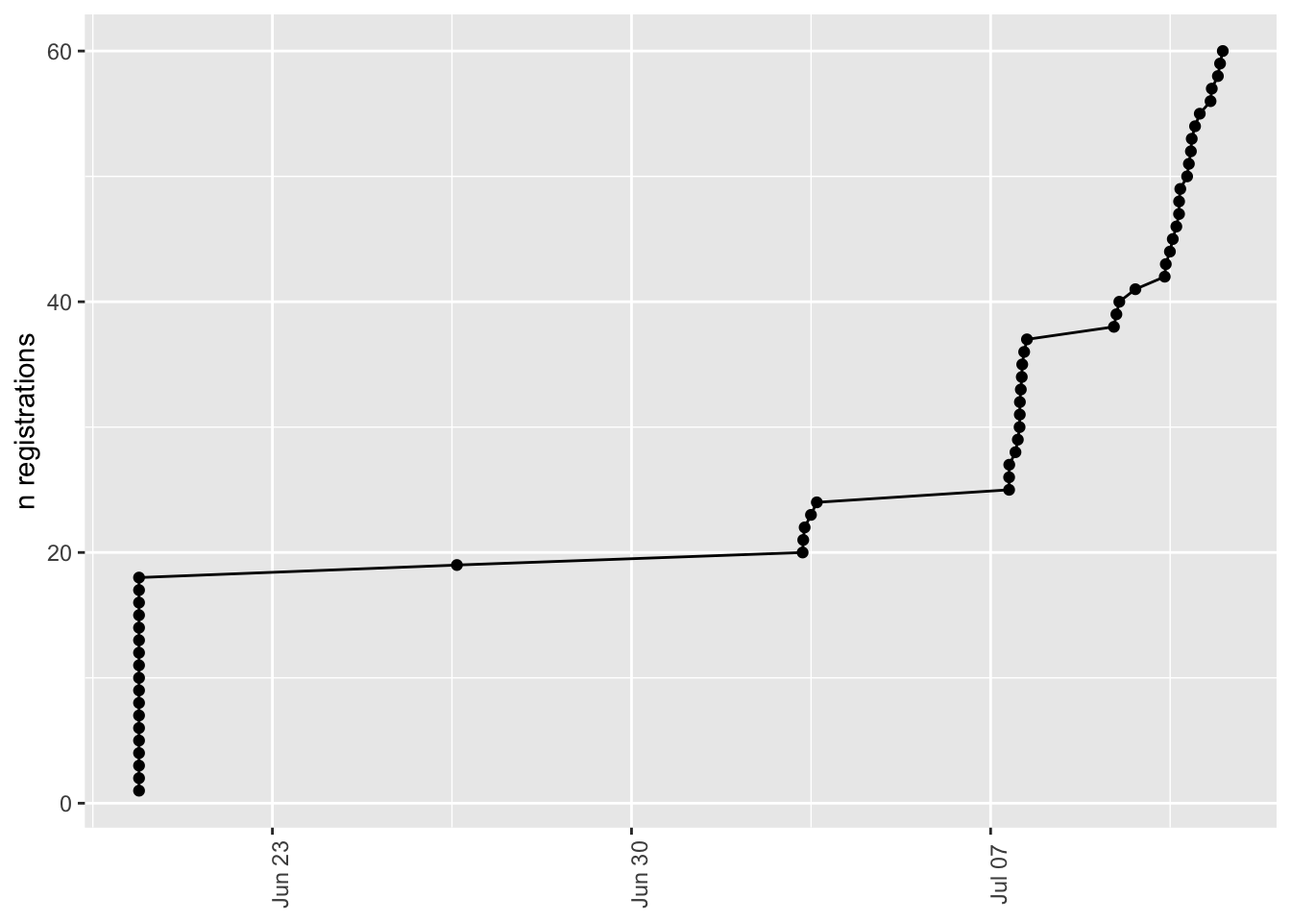
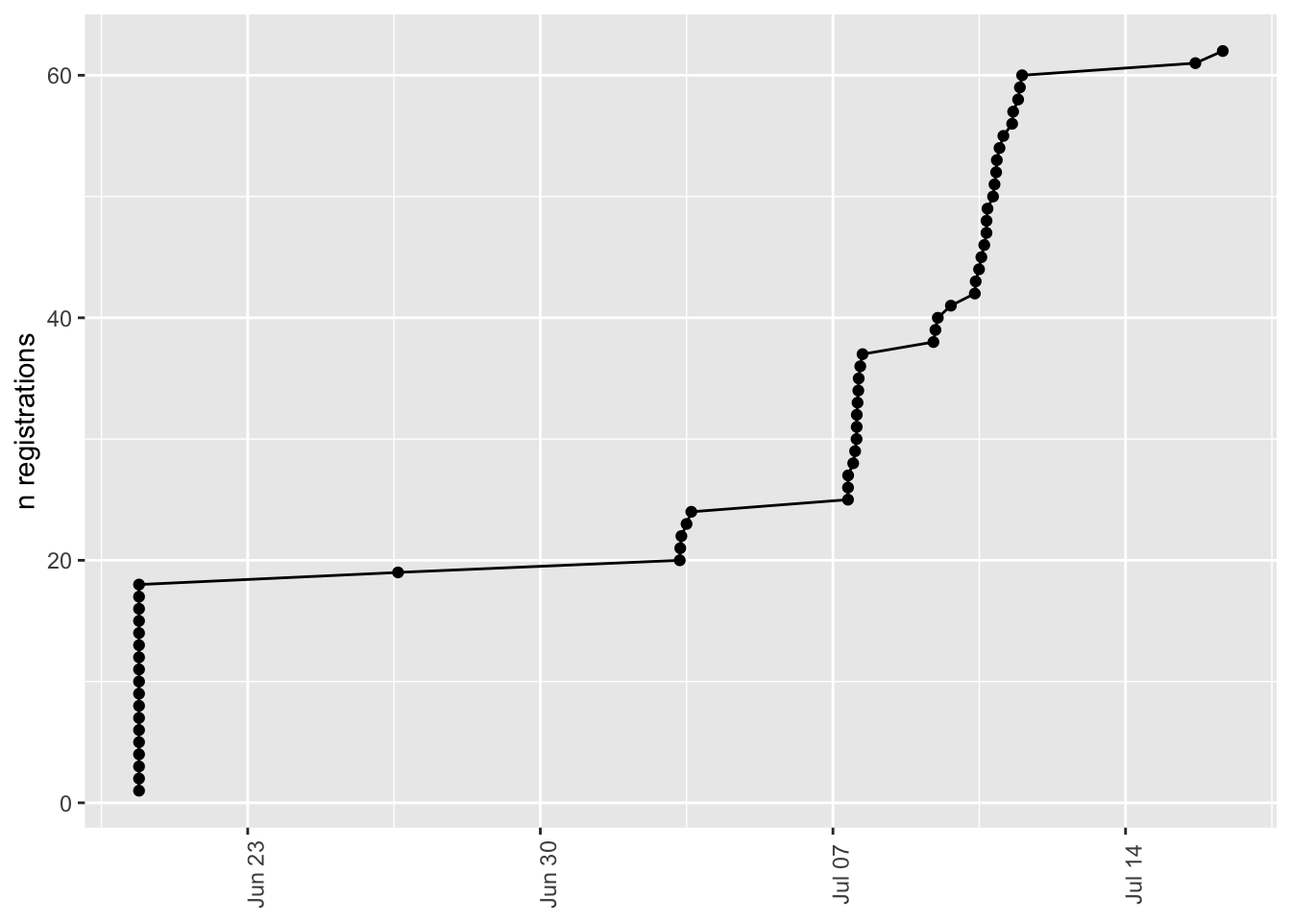
Add stub description links for workshops.

diff --git a/docs/registration.html b/docs/registration.html
@@ -299,7 +299,7 @@ window.Quarto = {
     <div>
     <div class="quarto-title-meta-heading">Modified</div>
     <div class="quarto-title-meta-contents">
-      <p class="date-modified">July 13, 2025</p>
+      <p class="date-modified">July 16, 2025</p>
     </div>
   </div>
     
@@ -530,7 +530,7 @@ Table&nbsp;9.1: A minimal data dictionary.
 <span id="cb7-5"><a href="#cb7-5" aria-hidden="true" tabindex="-1"></a>  dplyr<span class="sc">::</span><span class="fu">mutate</span>(<span class="at">keynotes =</span> stringr<span class="sc">::</span><span class="fu">str_detect</span>(<span class="at">string =</span> bootcamp_keynote, <span class="at">pattern =</span> <span class="st">"Keynote"</span>))</span></code><button title="Copy to Clipboard" class="code-copy-button"><i class="bi"></i></button></pre></div>
 </details>
 </div>
-<p>As of 2025-07-15, we have <span class="math inline">\(n=\)</span> 60 registered attendees and presenters. That is 80 % of our target registration/attendance limit of <em>n</em>=75.</p>
+<p>As of 2025-07-16, we have <span class="math inline">\(n=\)</span> 62 registered attendees and presenters. That is 82.7 % of our target registration/attendance limit of <em>n</em>=75.</p>
 </section>
 <section id="time-series" class="level3 unnumbered">
 <h3 class="unnumbered anchored" data-anchor-id="time-series">Time series</h3>
@@ -607,13 +607,13 @@ n_fri
 <tbody>
 <tr>
 <td style="text-align:right;">
-48
+50
 </td>
 <td style="text-align:right;">
-53
+55
 </td>
 <td style="text-align:right;">
-44
+46
 </td>
 </tr>
 </tbody>
@@ -714,62 +714,63 @@ Figure&nbsp;9.2: Registrations by position
 <span id="cb11-52"><a href="#cb11-52" aria-hidden="true" tabindex="-1"></a>      <span class="st">`</span><span class="at">Libraries</span><span class="st">`</span> <span class="ot">=</span> <span class="st">"University Libraries"</span>,</span>
 <span id="cb11-53"><a href="#cb11-53" aria-hidden="true" tabindex="-1"></a>      <span class="st">`</span><span class="at">University libraries</span><span class="st">`</span> <span class="ot">=</span> <span class="st">"University Libraries"</span>,</span>
 <span id="cb11-54"><a href="#cb11-54" aria-hidden="true" tabindex="-1"></a>      <span class="st">`</span><span class="at">Ecosystem Science and Management</span><span class="st">`</span> <span class="ot">=</span> <span class="st">"Ecosystem Science &amp; Management"</span>,</span>
-<span id="cb11-55"><a href="#cb11-55" aria-hidden="true" tabindex="-1"></a>      <span class="st">`</span><span class="at">PRC</span><span class="st">`</span> <span class="ot">=</span> <span class="st">"Population Research Center"</span></span>
-<span id="cb11-56"><a href="#cb11-56" aria-hidden="true" tabindex="-1"></a>    )</span>
-<span id="cb11-57"><a href="#cb11-57" aria-hidden="true" tabindex="-1"></a>  ) <span class="sc">|&gt;</span> </span>
-<span id="cb11-58"><a href="#cb11-58" aria-hidden="true" tabindex="-1"></a>  dplyr<span class="sc">::</span><span class="fu">mutate</span>(</span>
-<span id="cb11-59"><a href="#cb11-59" aria-hidden="true" tabindex="-1"></a>    <span class="at">college =</span> <span class="fu">case_match</span>(</span>
-<span id="cb11-60"><a href="#cb11-60" aria-hidden="true" tabindex="-1"></a>      dept,</span>
-<span id="cb11-61"><a href="#cb11-61" aria-hidden="true" tabindex="-1"></a>      <span class="st">"Statistics"</span> <span class="sc">~</span> <span class="st">"ECoS"</span>,</span>
-<span id="cb11-62"><a href="#cb11-62" aria-hidden="true" tabindex="-1"></a>      <span class="st">"Biology"</span> <span class="sc">~</span> <span class="st">"ECoS"</span>,</span>
-<span id="cb11-63"><a href="#cb11-63" aria-hidden="true" tabindex="-1"></a>      <span class="st">"Psychology"</span> <span class="sc">~</span> <span class="st">"CLA"</span>,</span>
-<span id="cb11-64"><a href="#cb11-64" aria-hidden="true" tabindex="-1"></a>      <span class="st">"Spanish, Italian, &amp; Portuguese"</span> <span class="sc">~</span> <span class="st">"CLA"</span>,</span>
-<span id="cb11-65"><a href="#cb11-65" aria-hidden="true" tabindex="-1"></a>      <span class="st">"Research Informatics and Publishing"</span> <span class="sc">~</span> <span class="st">"Libraries"</span>,</span>
-<span id="cb11-66"><a href="#cb11-66" aria-hidden="true" tabindex="-1"></a>      <span class="st">"Political Science"</span> <span class="sc">~</span> <span class="st">"CLA"</span>,</span>
-<span id="cb11-67"><a href="#cb11-67" aria-hidden="true" tabindex="-1"></a>      <span class="st">"Applied Linguistics"</span> <span class="sc">~</span> <span class="st">"CLA"</span>,</span>
-<span id="cb11-68"><a href="#cb11-68" aria-hidden="true" tabindex="-1"></a>      <span class="st">"Global Languages &amp; Literatures"</span> <span class="sc">~</span> <span class="st">"CLA"</span>,</span>
-<span id="cb11-69"><a href="#cb11-69" aria-hidden="true" tabindex="-1"></a>      <span class="st">"Sociology"</span> <span class="sc">~</span> <span class="st">"CLA"</span>,</span>
-<span id="cb11-70"><a href="#cb11-70" aria-hidden="true" tabindex="-1"></a>      <span class="st">"English"</span> <span class="sc">~</span> <span class="st">"CLA"</span>,</span>
-<span id="cb11-71"><a href="#cb11-71" aria-hidden="true" tabindex="-1"></a>      <span class="st">"C-SoDA"</span> <span class="sc">~</span> <span class="st">"CLA"</span>,</span>
-<span id="cb11-72"><a href="#cb11-72" aria-hidden="true" tabindex="-1"></a>      <span class="st">"Office of Digital Pedagogies and Initiatives"</span> <span class="sc">~</span> <span class="st">"CLA"</span>,</span>
-<span id="cb11-73"><a href="#cb11-73" aria-hidden="true" tabindex="-1"></a>      <span class="st">"Asian Studies"</span> <span class="sc">~</span> <span class="st">"CLA"</span>,</span>
-<span id="cb11-74"><a href="#cb11-74" aria-hidden="true" tabindex="-1"></a>      <span class="st">"Sociology &amp; Criminology"</span> <span class="sc">~</span> <span class="st">"CLA"</span>,</span>
-<span id="cb11-75"><a href="#cb11-75" aria-hidden="true" tabindex="-1"></a>      <span class="st">"IST"</span> <span class="sc">~</span> <span class="st">"IST"</span>,</span>
-<span id="cb11-76"><a href="#cb11-76" aria-hidden="true" tabindex="-1"></a>      <span class="st">"Chemical Engineering"</span> <span class="sc">~</span> <span class="st">"Engineering"</span>,</span>
-<span id="cb11-77"><a href="#cb11-77" aria-hidden="true" tabindex="-1"></a>      <span class="st">"Material Science and Engineering"</span> <span class="sc">~</span> <span class="st">"Engineering"</span>,</span>
-<span id="cb11-78"><a href="#cb11-78" aria-hidden="true" tabindex="-1"></a>      <span class="st">"Engineering Science &amp; Mechanics"</span> <span class="sc">~</span> <span class="st">"Engineering"</span>,</span>
-<span id="cb11-79"><a href="#cb11-79" aria-hidden="true" tabindex="-1"></a>      <span class="st">"College of Engineering"</span> <span class="sc">~</span> <span class="st">"Engineering"</span>,</span>
-<span id="cb11-80"><a href="#cb11-80" aria-hidden="true" tabindex="-1"></a>      <span class="st">"Biomedical Engineering"</span> <span class="sc">~</span> <span class="st">"Engineering"</span>,</span>
-<span id="cb11-81"><a href="#cb11-81" aria-hidden="true" tabindex="-1"></a>      <span class="st">"Nutritional Sciences"</span> <span class="sc">~</span> <span class="st">"HHD"</span>,</span>
-<span id="cb11-82"><a href="#cb11-82" aria-hidden="true" tabindex="-1"></a>      <span class="st">"HDFS"</span> <span class="sc">~</span> <span class="st">"HHD"</span>,</span>
-<span id="cb11-83"><a href="#cb11-83" aria-hidden="true" tabindex="-1"></a>      <span class="st">"Kinesiology"</span> <span class="sc">~</span> <span class="st">"HHD"</span>,</span>
-<span id="cb11-84"><a href="#cb11-84" aria-hidden="true" tabindex="-1"></a>      <span class="st">"Recreation, Park, &amp; Tourism Management"</span> <span class="sc">~</span> <span class="st">"HHD"</span>,</span>
-<span id="cb11-85"><a href="#cb11-85" aria-hidden="true" tabindex="-1"></a>      <span class="st">"BBH"</span> <span class="sc">~</span> <span class="st">"HHD"</span>,</span>
-<span id="cb11-86"><a href="#cb11-86" aria-hidden="true" tabindex="-1"></a>      <span class="st">"College of Nursing"</span> <span class="sc">~</span> <span class="st">"Nursing"</span>,</span>
-<span id="cb11-87"><a href="#cb11-87" aria-hidden="true" tabindex="-1"></a>      <span class="st">"Bellisario College of Communication"</span> <span class="sc">~</span> <span class="st">"Comm"</span>,</span>
-<span id="cb11-88"><a href="#cb11-88" aria-hidden="true" tabindex="-1"></a>      <span class="st">"Marketing"</span> <span class="sc">~</span> <span class="st">"Smeal"</span>,</span>
-<span id="cb11-89"><a href="#cb11-89" aria-hidden="true" tabindex="-1"></a>      <span class="st">"Food Science"</span> <span class="sc">~</span> <span class="st">"Ag"</span>,</span>
-<span id="cb11-90"><a href="#cb11-90" aria-hidden="true" tabindex="-1"></a>      <span class="st">"Neuroscience"</span> <span class="sc">~</span> <span class="st">"Med"</span>,</span>
-<span id="cb11-91"><a href="#cb11-91" aria-hidden="true" tabindex="-1"></a>      <span class="st">"College of Human and Health Development"</span> <span class="sc">~</span> <span class="st">"HHD"</span>,</span>
-<span id="cb11-92"><a href="#cb11-92" aria-hidden="true" tabindex="-1"></a>      <span class="st">"University Libraries"</span> <span class="sc">~</span> <span class="st">"Libraries"</span>,</span>
-<span id="cb11-93"><a href="#cb11-93" aria-hidden="true" tabindex="-1"></a>      <span class="st">"ICDS"</span> <span class="sc">~</span> <span class="st">"ICDS"</span>,</span>
-<span id="cb11-94"><a href="#cb11-94" aria-hidden="true" tabindex="-1"></a>      <span class="st">"EESI"</span> <span class="sc">~</span> <span class="st">"EESI"</span>,</span>
-<span id="cb11-95"><a href="#cb11-95" aria-hidden="true" tabindex="-1"></a>      <span class="st">"ORP"</span> <span class="sc">~</span> <span class="st">"OVPR"</span>,</span>
-<span id="cb11-96"><a href="#cb11-96" aria-hidden="true" tabindex="-1"></a>      <span class="st">"Astronomy &amp; Astrophysics"</span> <span class="sc">~</span> <span class="st">"ECoS"</span>,</span>
-<span id="cb11-97"><a href="#cb11-97" aria-hidden="true" tabindex="-1"></a>      <span class="st">"Entomology"</span> <span class="sc">~</span> <span class="st">"AgSci"</span>,</span>
-<span id="cb11-98"><a href="#cb11-98" aria-hidden="true" tabindex="-1"></a>      <span class="st">"Ecosystem Science &amp; Management"</span> <span class="sc">~</span> <span class="st">"AgSci"</span>,</span>
-<span id="cb11-99"><a href="#cb11-99" aria-hidden="true" tabindex="-1"></a>      <span class="st">"Plant Biology"</span> <span class="sc">~</span> <span class="st">"Huck"</span>,</span>
-<span id="cb11-100"><a href="#cb11-100" aria-hidden="true" tabindex="-1"></a>      <span class="st">"Acoustics"</span> <span class="sc">~</span> <span class="st">"Engineering"</span>,</span>
-<span id="cb11-101"><a href="#cb11-101" aria-hidden="true" tabindex="-1"></a>      <span class="st">"Communication Sciences &amp; Disorders"</span> <span class="sc">~</span> <span class="st">"HHD"</span>,</span>
-<span id="cb11-102"><a href="#cb11-102" aria-hidden="true" tabindex="-1"></a>      <span class="st">"Electrical Engineering &amp; Comp Sci"</span> <span class="sc">~</span> <span class="st">"Engineering"</span>,</span>
-<span id="cb11-103"><a href="#cb11-103" aria-hidden="true" tabindex="-1"></a>      <span class="st">"Population Research Center"</span> <span class="sc">~</span> <span class="st">"SSRI"</span>,</span>
-<span id="cb11-104"><a href="#cb11-104" aria-hidden="true" tabindex="-1"></a>      <span class="st">"Psychology (Harrisburg)"</span> <span class="sc">~</span> <span class="st">"PSU Harrisburg"</span>,</span>
-<span id="cb11-105"><a href="#cb11-105" aria-hidden="true" tabindex="-1"></a>      <span class="st">"Business and Economics"</span> <span class="sc">~</span> <span class="st">"PSU Brandywine"</span>,</span>
-<span id="cb11-106"><a href="#cb11-106" aria-hidden="true" tabindex="-1"></a>      <span class="st">"Engineering"</span> <span class="sc">~</span> <span class="st">"Engineering"</span></span>
-<span id="cb11-107"><a href="#cb11-107" aria-hidden="true" tabindex="-1"></a>    ),</span>
-<span id="cb11-108"><a href="#cb11-108" aria-hidden="true" tabindex="-1"></a>    <span class="at">.default =</span> <span class="st">"Unknown"</span>,</span>
-<span id="cb11-109"><a href="#cb11-109" aria-hidden="true" tabindex="-1"></a>    <span class="at">.missing =</span> <span class="st">"Unknown"</span></span>
-<span id="cb11-110"><a href="#cb11-110" aria-hidden="true" tabindex="-1"></a>  )</span></code><button title="Copy to Clipboard" class="code-copy-button"><i class="bi"></i></button></pre></div>
+<span id="cb11-55"><a href="#cb11-55" aria-hidden="true" tabindex="-1"></a>      <span class="st">`</span><span class="at">PRC</span><span class="st">`</span> <span class="ot">=</span> <span class="st">"Population Research Center"</span>,</span>
+<span id="cb11-56"><a href="#cb11-56" aria-hidden="true" tabindex="-1"></a>      <span class="st">`</span><span class="at">TLT, PSU Libraries</span><span class="st">`</span> <span class="ot">=</span> <span class="st">"University Libraries"</span></span>
+<span id="cb11-57"><a href="#cb11-57" aria-hidden="true" tabindex="-1"></a>    )</span>
+<span id="cb11-58"><a href="#cb11-58" aria-hidden="true" tabindex="-1"></a>  ) <span class="sc">|&gt;</span> </span>
+<span id="cb11-59"><a href="#cb11-59" aria-hidden="true" tabindex="-1"></a>  dplyr<span class="sc">::</span><span class="fu">mutate</span>(</span>
+<span id="cb11-60"><a href="#cb11-60" aria-hidden="true" tabindex="-1"></a>    <span class="at">college =</span> <span class="fu">case_match</span>(</span>
+<span id="cb11-61"><a href="#cb11-61" aria-hidden="true" tabindex="-1"></a>      dept,</span>
+<span id="cb11-62"><a href="#cb11-62" aria-hidden="true" tabindex="-1"></a>      <span class="st">"Statistics"</span> <span class="sc">~</span> <span class="st">"ECoS"</span>,</span>
+<span id="cb11-63"><a href="#cb11-63" aria-hidden="true" tabindex="-1"></a>      <span class="st">"Biology"</span> <span class="sc">~</span> <span class="st">"ECoS"</span>,</span>
+<span id="cb11-64"><a href="#cb11-64" aria-hidden="true" tabindex="-1"></a>      <span class="st">"Psychology"</span> <span class="sc">~</span> <span class="st">"CLA"</span>,</span>
+<span id="cb11-65"><a href="#cb11-65" aria-hidden="true" tabindex="-1"></a>      <span class="st">"Spanish, Italian, &amp; Portuguese"</span> <span class="sc">~</span> <span class="st">"CLA"</span>,</span>
+<span id="cb11-66"><a href="#cb11-66" aria-hidden="true" tabindex="-1"></a>      <span class="st">"Research Informatics and Publishing"</span> <span class="sc">~</span> <span class="st">"Libraries"</span>,</span>
+<span id="cb11-67"><a href="#cb11-67" aria-hidden="true" tabindex="-1"></a>      <span class="st">"Political Science"</span> <span class="sc">~</span> <span class="st">"CLA"</span>,</span>
+<span id="cb11-68"><a href="#cb11-68" aria-hidden="true" tabindex="-1"></a>      <span class="st">"Applied Linguistics"</span> <span class="sc">~</span> <span class="st">"CLA"</span>,</span>
+<span id="cb11-69"><a href="#cb11-69" aria-hidden="true" tabindex="-1"></a>      <span class="st">"Global Languages &amp; Literatures"</span> <span class="sc">~</span> <span class="st">"CLA"</span>,</span>
+<span id="cb11-70"><a href="#cb11-70" aria-hidden="true" tabindex="-1"></a>      <span class="st">"Sociology"</span> <span class="sc">~</span> <span class="st">"CLA"</span>,</span>
+<span id="cb11-71"><a href="#cb11-71" aria-hidden="true" tabindex="-1"></a>      <span class="st">"English"</span> <span class="sc">~</span> <span class="st">"CLA"</span>,</span>
+<span id="cb11-72"><a href="#cb11-72" aria-hidden="true" tabindex="-1"></a>      <span class="st">"C-SoDA"</span> <span class="sc">~</span> <span class="st">"CLA"</span>,</span>
+<span id="cb11-73"><a href="#cb11-73" aria-hidden="true" tabindex="-1"></a>      <span class="st">"Office of Digital Pedagogies and Initiatives"</span> <span class="sc">~</span> <span class="st">"CLA"</span>,</span>
+<span id="cb11-74"><a href="#cb11-74" aria-hidden="true" tabindex="-1"></a>      <span class="st">"Asian Studies"</span> <span class="sc">~</span> <span class="st">"CLA"</span>,</span>
+<span id="cb11-75"><a href="#cb11-75" aria-hidden="true" tabindex="-1"></a>      <span class="st">"Sociology &amp; Criminology"</span> <span class="sc">~</span> <span class="st">"CLA"</span>,</span>
+<span id="cb11-76"><a href="#cb11-76" aria-hidden="true" tabindex="-1"></a>      <span class="st">"IST"</span> <span class="sc">~</span> <span class="st">"IST"</span>,</span>
+<span id="cb11-77"><a href="#cb11-77" aria-hidden="true" tabindex="-1"></a>      <span class="st">"Chemical Engineering"</span> <span class="sc">~</span> <span class="st">"Engineering"</span>,</span>
+<span id="cb11-78"><a href="#cb11-78" aria-hidden="true" tabindex="-1"></a>      <span class="st">"Material Science and Engineering"</span> <span class="sc">~</span> <span class="st">"Engineering"</span>,</span>
+<span id="cb11-79"><a href="#cb11-79" aria-hidden="true" tabindex="-1"></a>      <span class="st">"Engineering Science &amp; Mechanics"</span> <span class="sc">~</span> <span class="st">"Engineering"</span>,</span>
+<span id="cb11-80"><a href="#cb11-80" aria-hidden="true" tabindex="-1"></a>      <span class="st">"College of Engineering"</span> <span class="sc">~</span> <span class="st">"Engineering"</span>,</span>
+<span id="cb11-81"><a href="#cb11-81" aria-hidden="true" tabindex="-1"></a>      <span class="st">"Biomedical Engineering"</span> <span class="sc">~</span> <span class="st">"Engineering"</span>,</span>
+<span id="cb11-82"><a href="#cb11-82" aria-hidden="true" tabindex="-1"></a>      <span class="st">"Nutritional Sciences"</span> <span class="sc">~</span> <span class="st">"HHD"</span>,</span>
+<span id="cb11-83"><a href="#cb11-83" aria-hidden="true" tabindex="-1"></a>      <span class="st">"HDFS"</span> <span class="sc">~</span> <span class="st">"HHD"</span>,</span>
+<span id="cb11-84"><a href="#cb11-84" aria-hidden="true" tabindex="-1"></a>      <span class="st">"Kinesiology"</span> <span class="sc">~</span> <span class="st">"HHD"</span>,</span>
+<span id="cb11-85"><a href="#cb11-85" aria-hidden="true" tabindex="-1"></a>      <span class="st">"Recreation, Park, &amp; Tourism Management"</span> <span class="sc">~</span> <span class="st">"HHD"</span>,</span>
+<span id="cb11-86"><a href="#cb11-86" aria-hidden="true" tabindex="-1"></a>      <span class="st">"BBH"</span> <span class="sc">~</span> <span class="st">"HHD"</span>,</span>
+<span id="cb11-87"><a href="#cb11-87" aria-hidden="true" tabindex="-1"></a>      <span class="st">"College of Nursing"</span> <span class="sc">~</span> <span class="st">"Nursing"</span>,</span>
+<span id="cb11-88"><a href="#cb11-88" aria-hidden="true" tabindex="-1"></a>      <span class="st">"Bellisario College of Communication"</span> <span class="sc">~</span> <span class="st">"Comm"</span>,</span>
+<span id="cb11-89"><a href="#cb11-89" aria-hidden="true" tabindex="-1"></a>      <span class="st">"Marketing"</span> <span class="sc">~</span> <span class="st">"Smeal"</span>,</span>
+<span id="cb11-90"><a href="#cb11-90" aria-hidden="true" tabindex="-1"></a>      <span class="st">"Food Science"</span> <span class="sc">~</span> <span class="st">"Ag"</span>,</span>
+<span id="cb11-91"><a href="#cb11-91" aria-hidden="true" tabindex="-1"></a>      <span class="st">"Neuroscience"</span> <span class="sc">~</span> <span class="st">"Med"</span>,</span>
+<span id="cb11-92"><a href="#cb11-92" aria-hidden="true" tabindex="-1"></a>      <span class="st">"College of Human and Health Development"</span> <span class="sc">~</span> <span class="st">"HHD"</span>,</span>
+<span id="cb11-93"><a href="#cb11-93" aria-hidden="true" tabindex="-1"></a>      <span class="st">"University Libraries"</span> <span class="sc">~</span> <span class="st">"Libraries"</span>,</span>
+<span id="cb11-94"><a href="#cb11-94" aria-hidden="true" tabindex="-1"></a>      <span class="st">"ICDS"</span> <span class="sc">~</span> <span class="st">"ICDS"</span>,</span>
+<span id="cb11-95"><a href="#cb11-95" aria-hidden="true" tabindex="-1"></a>      <span class="st">"EESI"</span> <span class="sc">~</span> <span class="st">"EESI"</span>,</span>
+<span id="cb11-96"><a href="#cb11-96" aria-hidden="true" tabindex="-1"></a>      <span class="st">"ORP"</span> <span class="sc">~</span> <span class="st">"OVPR"</span>,</span>
+<span id="cb11-97"><a href="#cb11-97" aria-hidden="true" tabindex="-1"></a>      <span class="st">"Astronomy &amp; Astrophysics"</span> <span class="sc">~</span> <span class="st">"ECoS"</span>,</span>
+<span id="cb11-98"><a href="#cb11-98" aria-hidden="true" tabindex="-1"></a>      <span class="st">"Entomology"</span> <span class="sc">~</span> <span class="st">"AgSci"</span>,</span>
+<span id="cb11-99"><a href="#cb11-99" aria-hidden="true" tabindex="-1"></a>      <span class="st">"Ecosystem Science &amp; Management"</span> <span class="sc">~</span> <span class="st">"AgSci"</span>,</span>
+<span id="cb11-100"><a href="#cb11-100" aria-hidden="true" tabindex="-1"></a>      <span class="st">"Plant Biology"</span> <span class="sc">~</span> <span class="st">"Huck"</span>,</span>
+<span id="cb11-101"><a href="#cb11-101" aria-hidden="true" tabindex="-1"></a>      <span class="st">"Acoustics"</span> <span class="sc">~</span> <span class="st">"Engineering"</span>,</span>
+<span id="cb11-102"><a href="#cb11-102" aria-hidden="true" tabindex="-1"></a>      <span class="st">"Communication Sciences &amp; Disorders"</span> <span class="sc">~</span> <span class="st">"HHD"</span>,</span>
+<span id="cb11-103"><a href="#cb11-103" aria-hidden="true" tabindex="-1"></a>      <span class="st">"Electrical Engineering &amp; Comp Sci"</span> <span class="sc">~</span> <span class="st">"Engineering"</span>,</span>
+<span id="cb11-104"><a href="#cb11-104" aria-hidden="true" tabindex="-1"></a>      <span class="st">"Population Research Center"</span> <span class="sc">~</span> <span class="st">"SSRI"</span>,</span>
+<span id="cb11-105"><a href="#cb11-105" aria-hidden="true" tabindex="-1"></a>      <span class="st">"Psychology (Harrisburg)"</span> <span class="sc">~</span> <span class="st">"PSU Harrisburg"</span>,</span>
+<span id="cb11-106"><a href="#cb11-106" aria-hidden="true" tabindex="-1"></a>      <span class="st">"Business and Economics"</span> <span class="sc">~</span> <span class="st">"PSU Brandywine"</span>,</span>
+<span id="cb11-107"><a href="#cb11-107" aria-hidden="true" tabindex="-1"></a>      <span class="st">"Engineering"</span> <span class="sc">~</span> <span class="st">"Engineering"</span></span>
+<span id="cb11-108"><a href="#cb11-108" aria-hidden="true" tabindex="-1"></a>    ),</span>
+<span id="cb11-109"><a href="#cb11-109" aria-hidden="true" tabindex="-1"></a>    <span class="at">.default =</span> <span class="st">"Unknown"</span>,</span>
+<span id="cb11-110"><a href="#cb11-110" aria-hidden="true" tabindex="-1"></a>    <span class="at">.missing =</span> <span class="st">"Unknown"</span></span>
+<span id="cb11-111"><a href="#cb11-111" aria-hidden="true" tabindex="-1"></a>  )</span></code><button title="Copy to Clipboard" class="code-copy-button"><i class="bi"></i></button></pre></div>
 </details>
 </div>
 <div class="cell">

diff --git a/docs/day-1.html b/docs/day-1.html
@@ -243,7 +243,7 @@ ul.task-list li input[type="checkbox"] {
     <div>
     <div class="quarto-title-meta-heading">Modified</div>
     <div class="quarto-title-meta-contents">
-      <p class="date-modified">July 14, 2025</p>
+      <p class="date-modified">July 16, 2025</p>
     </div>
   </div>
     
@@ -335,14 +335,14 @@ Location
 </thead>
 <tbody>
 <tr class="odd">
-<td>Introduction to Jupyter notebooks (<a href="./presenters.html#john-russell">Russell</a>),</td>
+<td>Introduction to Jupyter notebooks (<a href="./presenters.html#john-russell">Russell</a>)</td>
 <td>W211A</td>
-<td></td>
+<td><a href="">description</a></td>
 </tr>
 <tr class="even">
 <td>Getting credit for sharing your data: Good enough data management practices (<a href="./directors.html#alaina-pearce">Pearce</a>)</td>
 <td>Dewey Room</td>
-<td></td>
+<td><a href="./sessions.html#getting-credit-for-sharing-your-data-part-i-good-enough-data-practices">description</a></td>
 </tr>
 </tbody>
 </table>
@@ -364,12 +364,12 @@ Location
 <tr class="odd">
 <td>Quarto (Part I): A tool for open scholarship (<a href="./directors.html#directors.qmd#rick-gilmore">Gilmore</a>)</td>
 <td>221A</td>
-<td><a href="./sessions.html#quarto-part-i-a-tool-for-open-scholarship">description</a>, <a href="https://penn-state-open-science.github.io/bootcamp-2025-quarto-I">slides</a>, <a href="https://penn-state-open-science.github.io/bootcamp-2025-quarto-I-template">template repo</a></td>
+<td><a href="./sessions.html#quarto-part-i-a-tool-for-open-scholarship">description</a> ~ <a href="https://penn-state-open-science.github.io/bootcamp-2025-quarto-I">slides</a> ~ <a href="https://penn-state-open-science.github.io/bootcamp-2025-quarto-I-template">template repo</a></td>
 </tr>
 <tr class="even">
 <td>Questionable research practices (<a href="./program-committee.html#nicole-lazar">Lazar</a> &amp; <a href="./program-committee.html#jennifer-valcin">Valcin</a>)</td>
 <td>Dewey Room</td>
-<td></td>
+<td><a href="">description</a></td>
 </tr>
 </tbody>
 </table>

diff --git a/docs/day-2.html b/docs/day-2.html
@@ -244,7 +244,7 @@ ul.task-list li input[type="checkbox"] {
     <div>
     <div class="quarto-title-meta-heading">Modified</div>
     <div class="quarto-title-meta-contents">
-      <p class="date-modified">July 14, 2025</p>
+      <p class="date-modified">July 16, 2025</p>
     </div>
   </div>
     
@@ -327,12 +327,12 @@ Location
 <tr class="odd">
 <td>Getting credit (Part II): Sharing your data (<a href="./directors.html#alaina-pearce">Pearce</a>)</td>
 <td>Dewey Room</td>
-<td></td>
+<td><a href="">description</a></td>
 </tr>
 <tr class="even">
 <td>Quarto (Part II): Reproducible research reports (<a href="./program-committee.html#john-west">West</a> &amp; <a href="./directors.html#rick-gilmore">Gilmore</a>)</td>
 <td>W211A</td>
-<td></td>
+<td><a href="">description</a></td>
 </tr>
 </tbody>
 </table>
@@ -354,12 +354,12 @@ Location
 <tr class="odd">
 <td>Getting credit (Part III): Data papers (<a href="./directors.html#alaina-pearce">Pearce</a>)</td>
 <td>Dewey Room</td>
-<td></td>
+<td><a href="">description</a></td>
 </tr>
 <tr class="even">
 <td>LLMs with Jupyter notebooks (<a href="./program-committee.html#valerie-li">Li</a>)</td>
 <td>W211A</td>
-<td></td>
+<td><a href="">description</a></td>
 </tr>
 </tbody>
 </table>

diff --git a/docs/day-3.html b/docs/day-3.html
@@ -232,7 +232,7 @@ ul.task-list li input[type="checkbox"] {
     <div>
     <div class="quarto-title-meta-heading">Modified</div>
     <div class="quarto-title-meta-contents">
-      <p class="date-modified">July 14, 2025</p>
+      <p class="date-modified">July 16, 2025</p>
     </div>
   </div>
     
@@ -294,12 +294,12 @@ Logistics
 <tr class="odd">
 <td>Early career panel (<a href="./program-committee.html#carlos-freitas-almeida">Almeida</a>, <a href="./presenters.html#kyle-hallisky">Hallisky</a>, &amp; <a href="./presenters.html#olivia-beck">Beck</a>)</td>
 <td>Dewey Room</td>
-<td></td>
+<td><a href="">description</a></td>
 </tr>
 <tr class="even">
 <td>Open access high performance computing (<a href="./program-committee.html#carrie-brown">Brown</a>)</td>
 <td>W211A</td>
-<td></td>
+<td><a href="">description</a></td>
 </tr>
 </tbody>
 </table>
